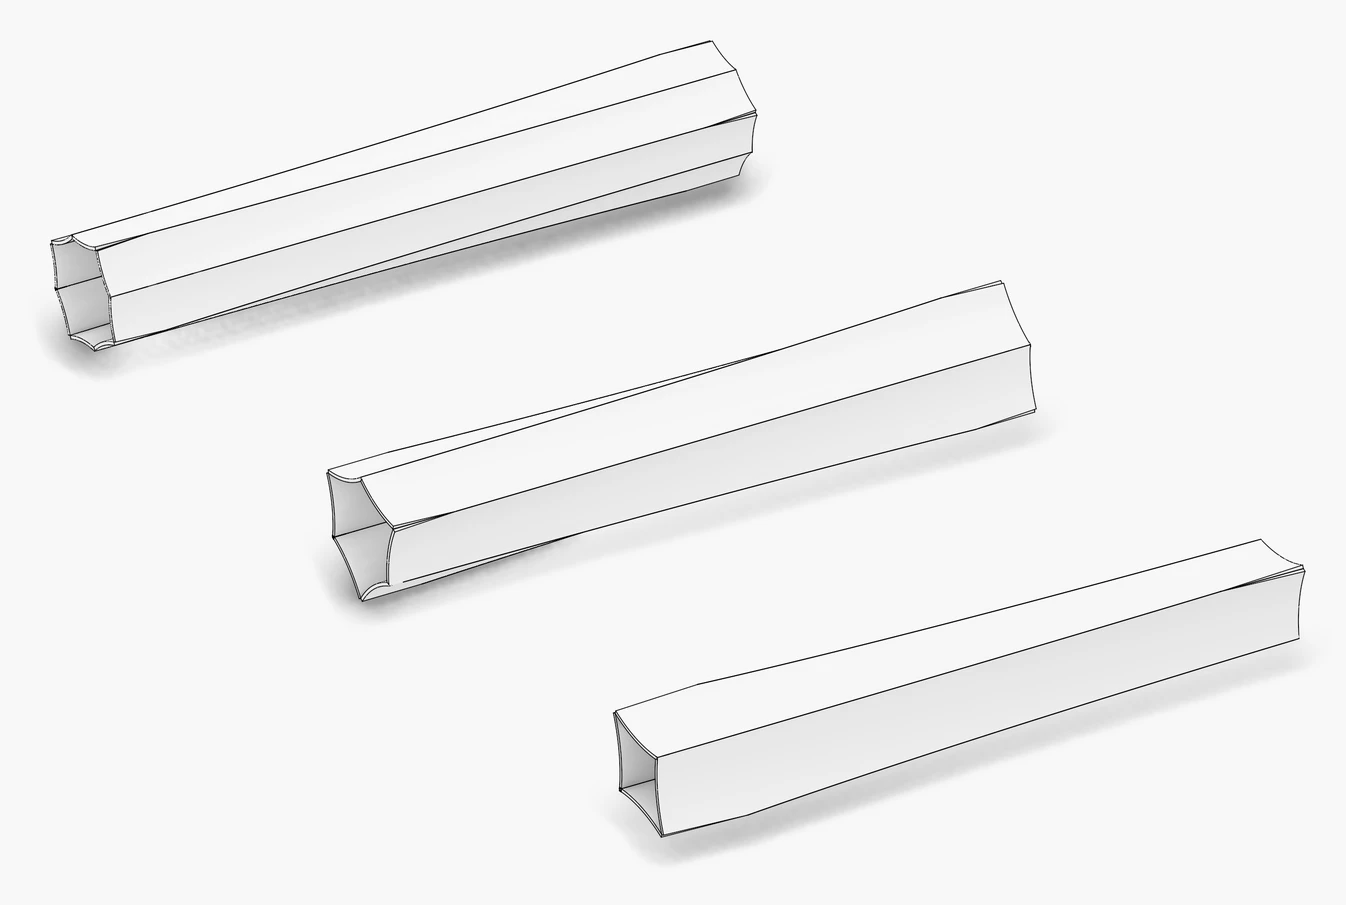
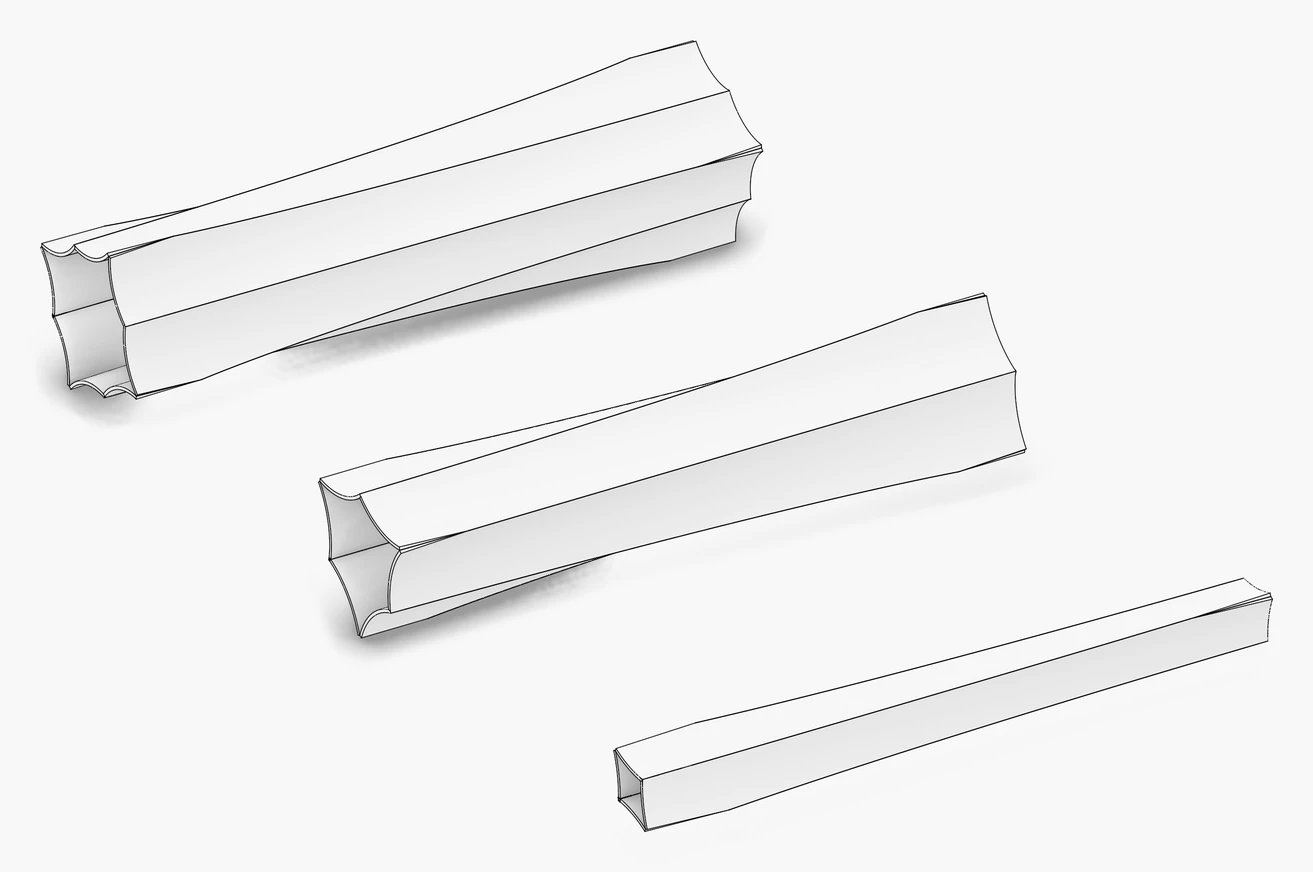
wood: carving rings back to their first radii, 2, 1.6 and 1.2 m, each cut only as deep as closing the ring needs, 1600, 1000 and 800 mm

diff --git a/examples/templates_cylindrical_folding_17_cylinder_carving_rings.cpp b/examples/templates_cylindrical_folding_17_cylinder_carving_rings.cpp
@@ -9,8 +9,8 @@ int main() {
 
     WoodSession rings("cylinder_carving_rings");
     const std::array<size_t, 3> counts = {4, 6, 8};
-    const std::array<double, 3> radii = {2600.0, 2000.0, 1600.0};
-    const std::array<double, 3> depths = {1400.0, 1100.0, 1100.0};
+    const std::array<double, 3> radii = {2000.0, 1600.0, 1200.0};
+    const std::array<double, 3> depths = {1600.0, 1000.0, 800.0};
 
     for (size_t r = 0; r < counts.size(); r++) {
         // the stock along x, every carver at an equal step round it, cutting depth deep, turned off its axis one way and the other in turn
@@ -47,7 +47,7 @@ int main() {
 
 /*
 |||||||| DESCRIPTION ||||||||
-Step 17 of the cylindrical folding templates: closed rings of carved patches. The stock, 2 m radius and 12 m long along x, is carved all round by 4 cylinders of 2.6 m radius cutting 1400 mm deep, by 6 of 2 m cutting 1100 mm and by 8 of 1.6 m cutting 1100 mm, every carver's axis turned off the stock's one way and the other in turn; the three rings stand side by side. Every patch meets both neighbours, so the plates close round the stock into a fluted tube, one contact per crease; the carving is validated closed, every point of the stock's surface carved, so the plates leave no gap. Groups: ring_<carvers>.
+Step 17 of the cylindrical folding templates: closed rings of carved patches. The stock, 2 m radius and 12 m long along x, is carved all round by 4 cylinders of 2 m radius cutting 1600 mm deep, by 6 of 1.6 m cutting 1000 mm and by 8 of 1.2 m cutting 800 mm, every carver's axis turned off the stock's one way and the other in turn; the three rings stand side by side. Every patch meets both neighbours, so the plates close round the stock into a fluted tube, one contact per crease; the carving is validated closed, every point of the stock's surface carved, so the plates leave no gap. Groups: ring_<carvers>.
 
 |||||||| DIRECTORY ||||||||
 cd wood_research/wood

diff --git a/docs/templates/cylindrical_folding.md b/docs/templates/cylindrical_folding.md
@@ -399,7 +399,7 @@ A stock of 2 m radius, 12 m long, carved by three cylinders of 1.5, 1.8 and 1.3 
 
 ### Closed rings {#cylinder_carving_rings}
 
-The stock carved all round by 4 cylinders of 2.6 m radius cutting 1400 mm deep, by 6 of 2 m cutting 1100 mm and by 8 of 1.6 m cutting 1100 mm, validated closed, every axis turned off the stock's one way and the other in turn: every patch meets both neighbours, the plates close round the stock into a fluted tube, one contact per crease (example `templates_cylindrical_folding_17_cylinder_carving_rings`).
+The stock carved all round by 4 cylinders of 2 m radius cutting 1600 mm deep, by 6 of 1.6 m cutting 1000 mm and by 8 of 1.2 m cutting 800 mm, validated closed, every axis turned off the stock's one way and the other in turn: every patch meets both neighbours, the plates close round the stock into a fluted tube, one contact per crease (example `templates_cylindrical_folding_17_cylinder_carving_rings`).
 
 ![cylinder carving rings](templates/templates_cylindrical_folding_17_cylinder_carving_rings_all.webp)
 
